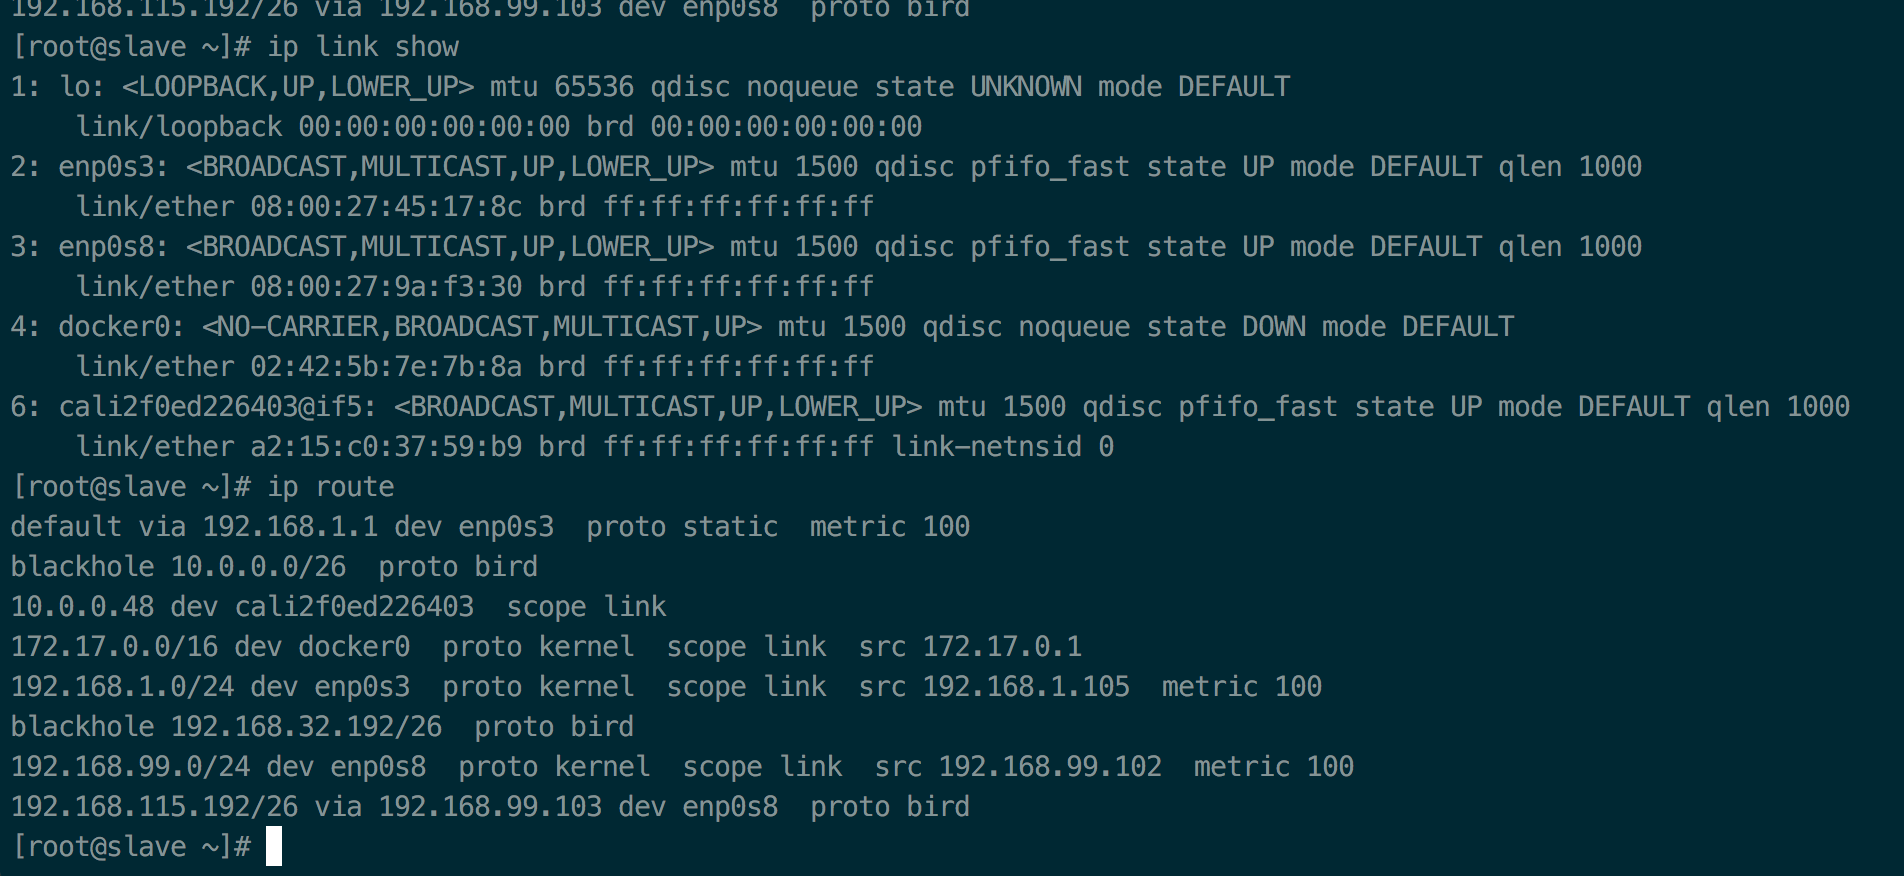
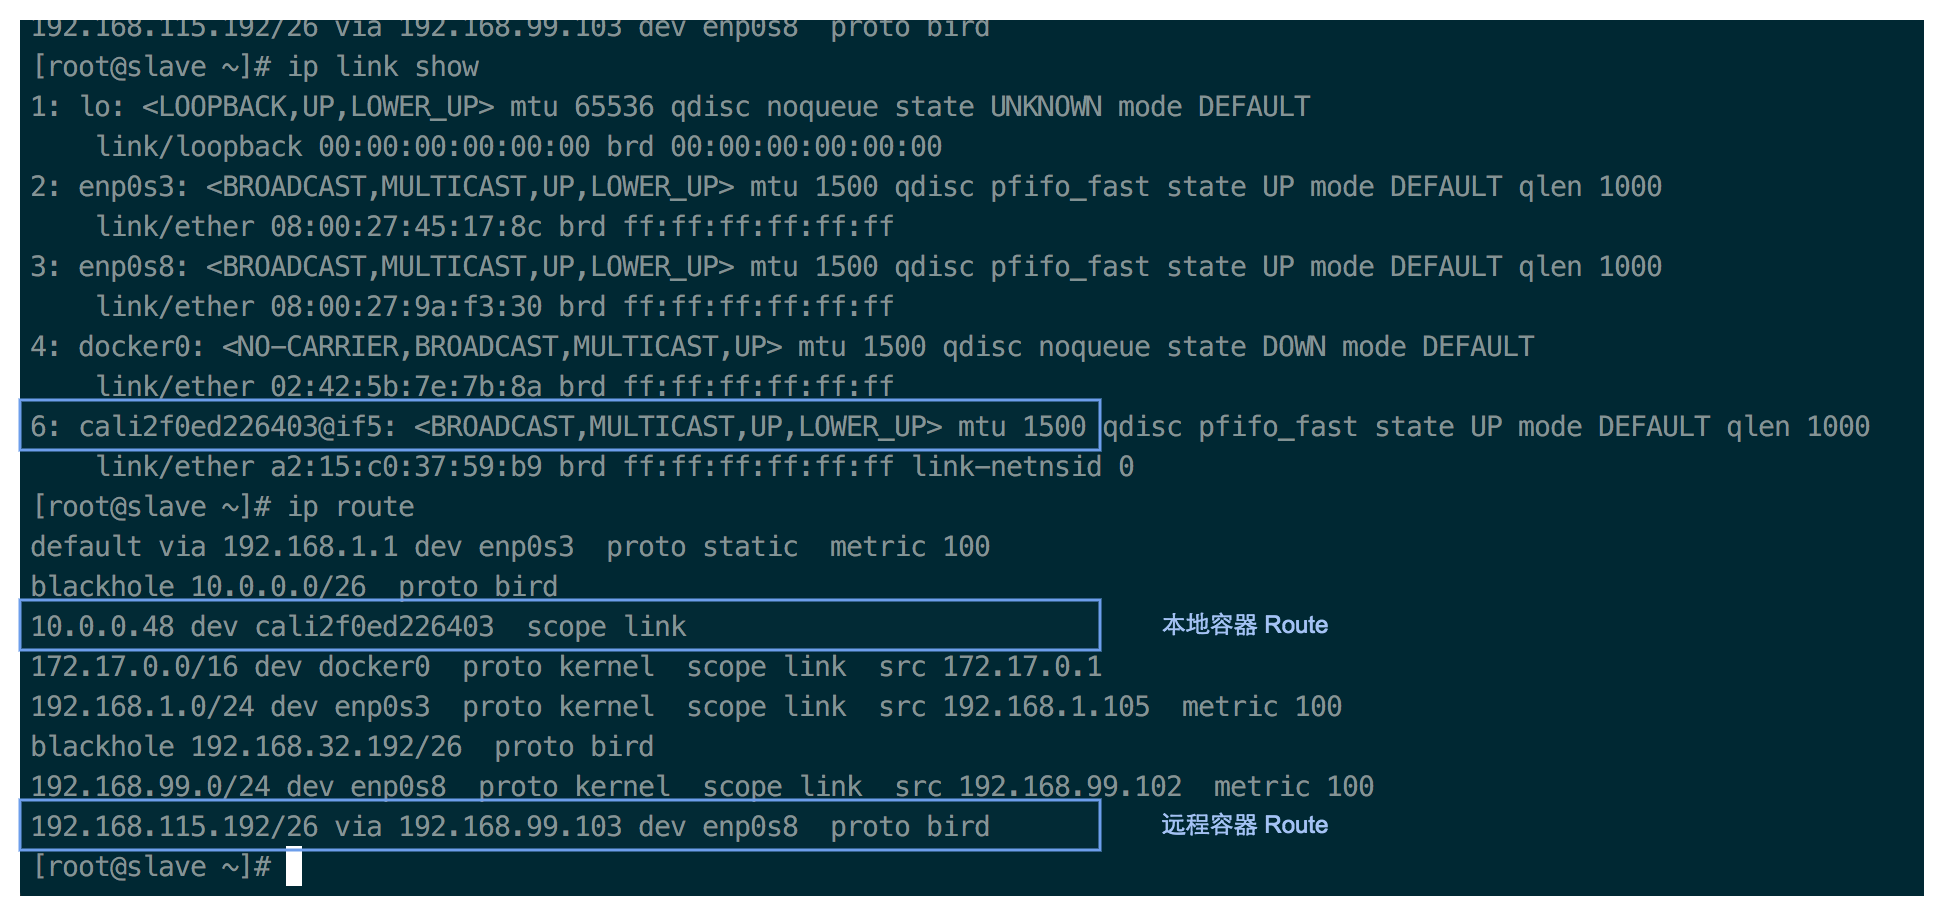
Add note on pics.

Changed region(s): [[0.0, 0.0, 1.0, 1.0]]

diff --git a/content/docker_network.md b/content/docker_network.md
@@ -149,15 +149,19 @@ Profile 样例：
 Calico 以测试为目的集群搭建，步骤很简单，这里不展示了，
 大家可以直接参考 Github：https://github.com/projectcalico/calico-containers/blob/master/docs/calico-with-docker/docker-network-plugin/README.md
 
-这里默认已经有了 Calico 网络的集群，
+这里默认已经有了 Calico 网络的集群，IP 分别是：192.168.99.102 和 192.168.99.103
 
 calicoctl status 截图：
 ![Calico status][calico_status]
 [calico_status]: images/calico_status.png "calico status"
 
+同时，已经有两个 IP Pool 创建好，分别是：10.0.0.0/26 和 192.168.0.0/16
+
 calicoctl pool show 截图：
 ![Calico pool][calico_pool]
 [calico_pool]: images/calico_pool_show.png "calico pool"
+
+当前集群也已经通过使用 calico driver 和 IPAM 创建了不同的 docker network，本次 demo 只需要使用 dataman
 
 docker network ls 截图：
 ![Docker network][docker_network]
@@ -209,6 +213,14 @@ Marathon json file:
 ![slave ip 2][slave_ip_2]
 [slave_ip_2]: images/ip_slave_2.png "ip slave 2"
 
+从上图可以看出，两个 slave 上的容器 IP 分别是：slave 10.0.0.48, slave2 192.168.115.193
+
+连通性测试截图：
+![ip connect 1][ip_connect_1]
+[ip_connect_1]: images/ip_connect_1.png "ip connect 1"
+![ip connect 2][ip_connect_2]
+[ip_connect_2]: images/ip_connect_2.png "ip connect 2"
+
 ### IP 路由实现 
 
 ![Calico data plane 1][calico_data_plane_1]
@@ -228,6 +240,7 @@ Marathon json file:
     container -> slave 1 -> route -> slave 2 -> container
 
 这样，跨主机的容期间通信就建立起来了，而且整个数据流中没有 NAT、隧道，不涉及封包。
+
 
 ### 安全策略 ACL
 
